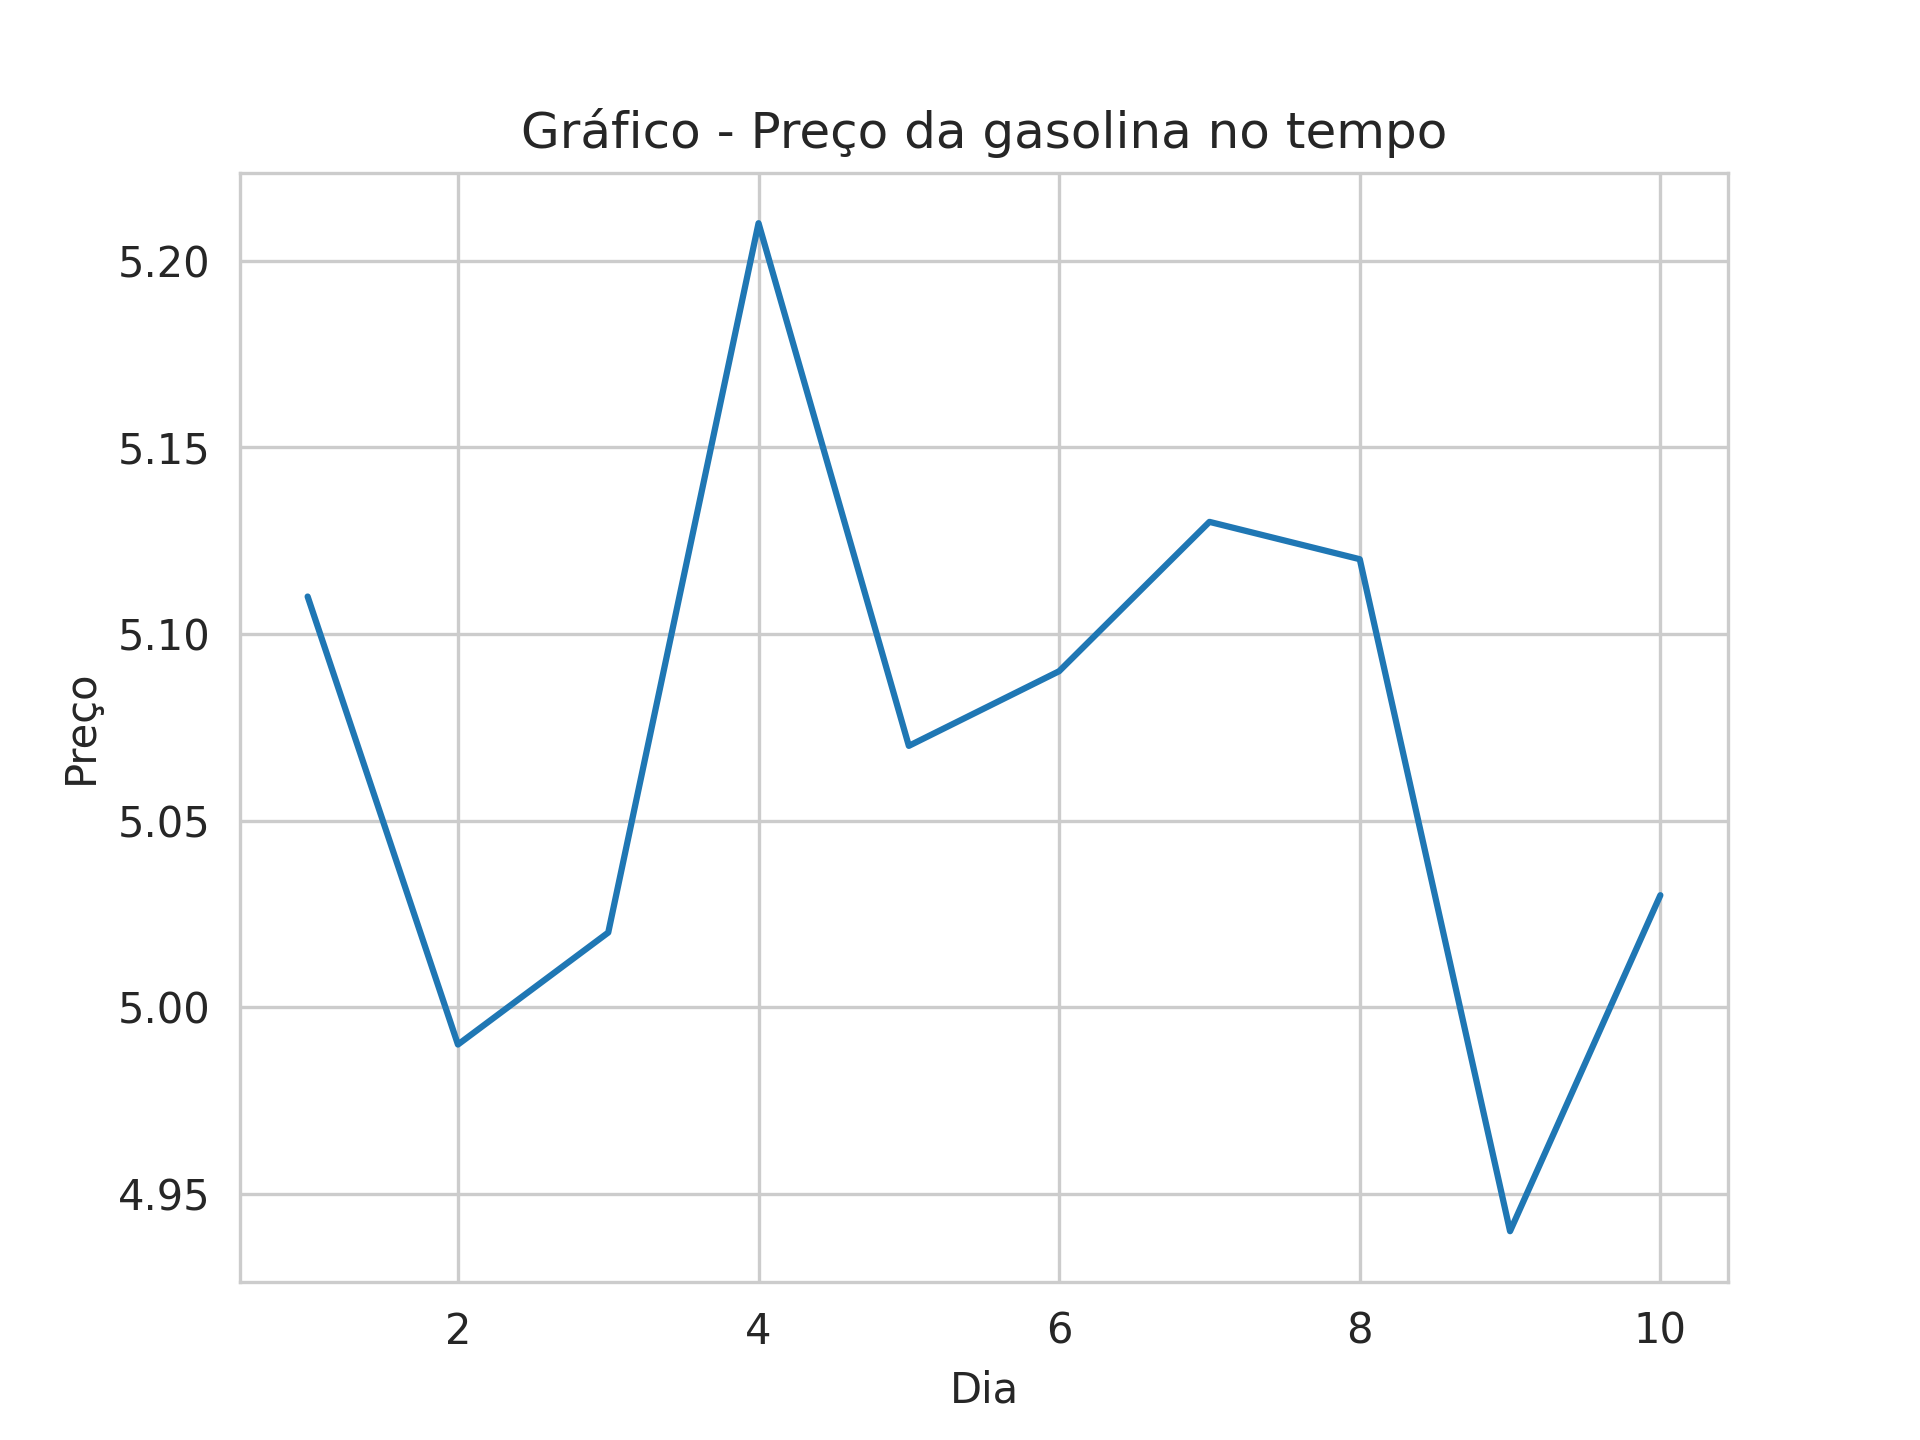
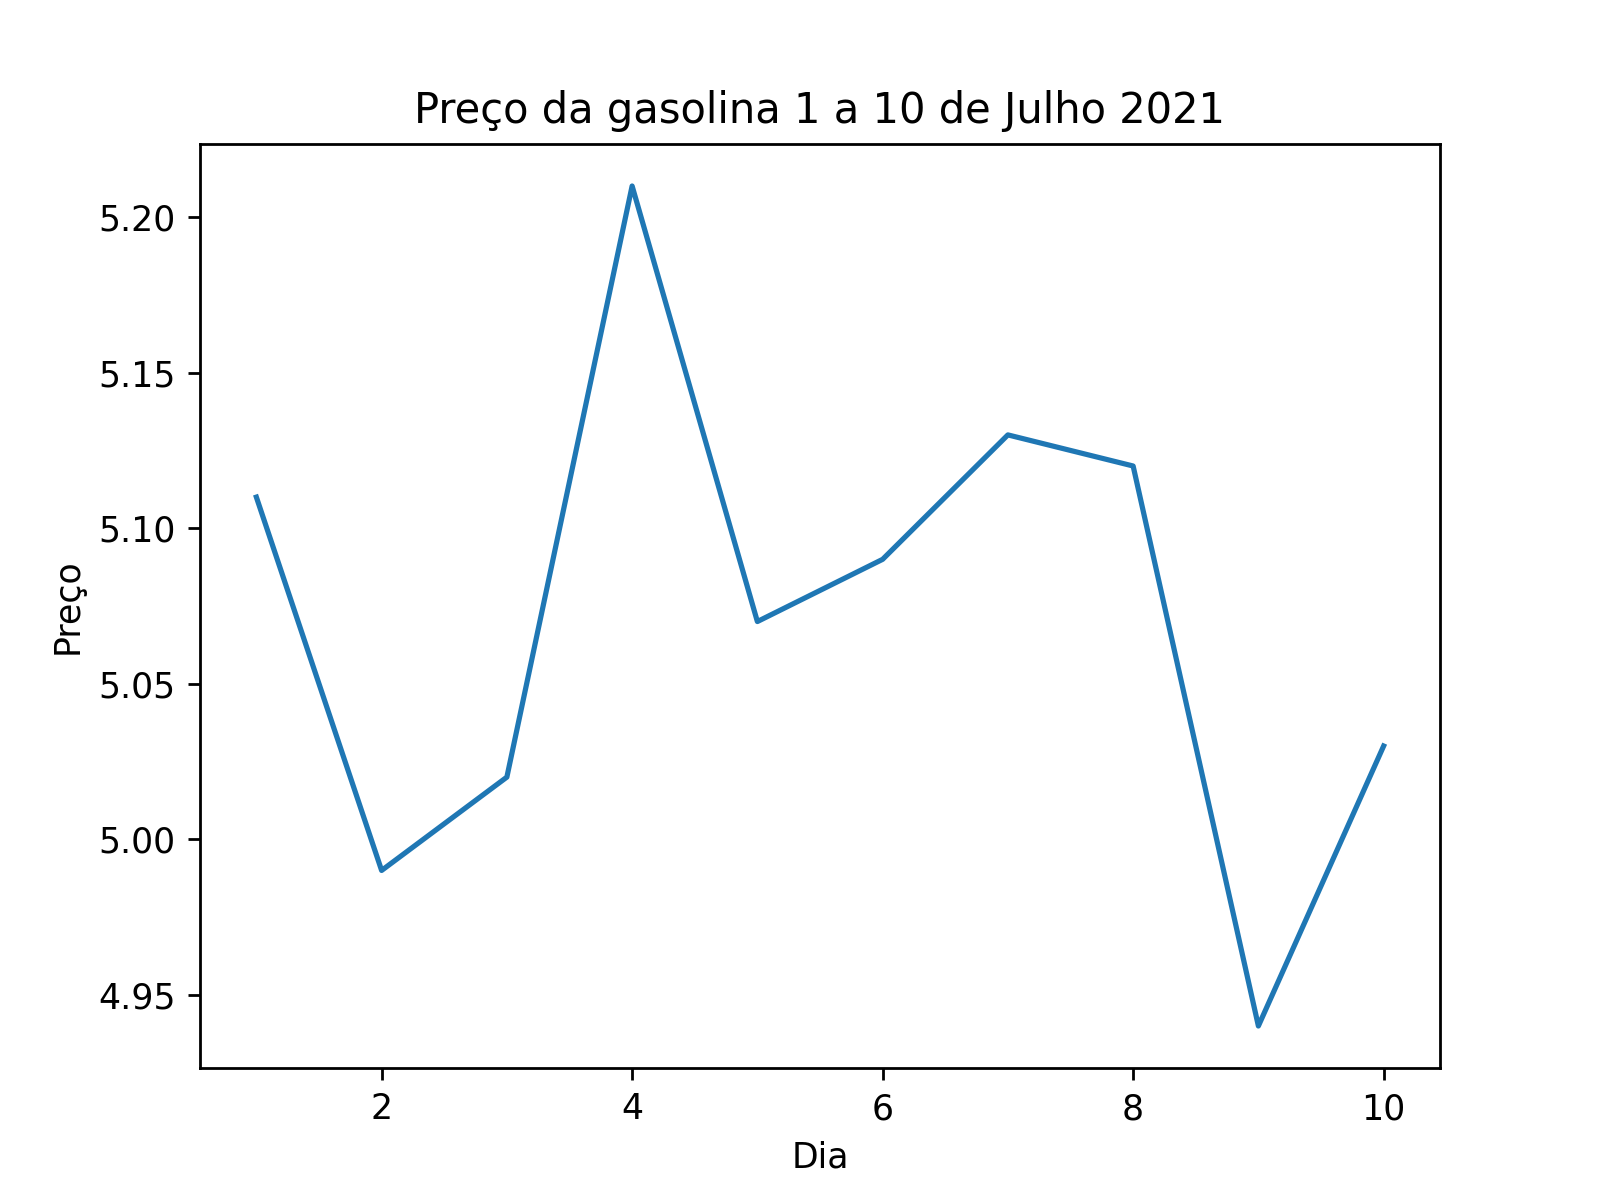
Commit inicial na branch Develop

diff --git a/Exercicios/Modulo_18/gasolina.py b/Exercicios/Modulo_18/gasolina.py
@@ -3,14 +3,13 @@
 import pandas as pd
 import seaborn as sns
 
-# Criação de dataframe
-gas_df = pd.read_csv("gasolina.csv")
+# Criação do dataset com os dados do arquivo .csv
+data = pd.read_csv('gasolina.csv')
 
-# Visualização
-sns.set_style('whitegrid')
-grafico = sns.lineplot(data=gas_df, x='dia', y='venda')
-grafico.set(title= 'Gráfico - Preço da gasolina no tempo', xlabel='Dia', ylabel='Preço')
+# Criação do gráfico
+grafico = sns.lineplot(data, x="dia", y="venda")
+grafico.set(title="Preço da gasolina 1 a 10 de Julho 2021",xlabel="Dia", ylabel="Preço")
 
-# Armazenamento
+# Armazenamento da figura gerada
 fig = grafico.get_figure()
-fig.savefig('gasolina.png', dpi=300)
+fig.savefig('gasolina.png', dpi=250)
